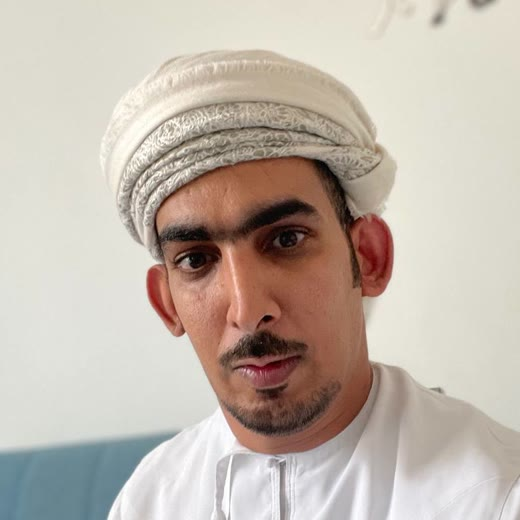
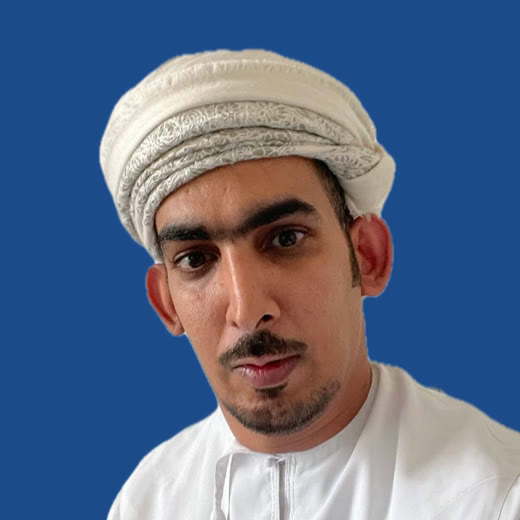
Founder photo: background removed (on-device), shown over the brand gradient; share image on brand blue

diff --git a/resources/views/about/founder.blade.php b/resources/views/about/founder.blade.php
@@ -30,7 +30,7 @@
 
     {{-- المقدمة: الاسم والدور وسطر واحد يلخّص --}}
     <section class="container founder-hero">
-        <img class="founder-hero__photo" src="{{ versioned_asset('images/about/salem-al-hajri.jpg') }}" alt="{{ $t('سالم محمد الحجري', 'Salem Mohammed Al Hajri') }}" width="220" height="220">
+        <img class="founder-hero__photo" src="{{ versioned_asset('images/about/salem-al-hajri.webp') }}" alt="{{ $t('سالم محمد الحجري', 'Salem Mohammed Al Hajri') }}" width="220" height="220">
         <div class="founder-hero__text">
             <span class="founder-hero__badge">{{ $t('عن المؤسس', 'About the founder') }}</span>
             <h1>{{ $t('سالم محمد الحجري', 'Salem Mohammed Al Hajri') }}</h1>
